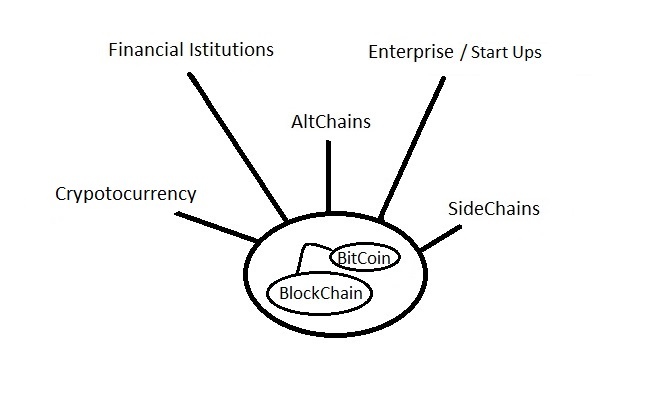
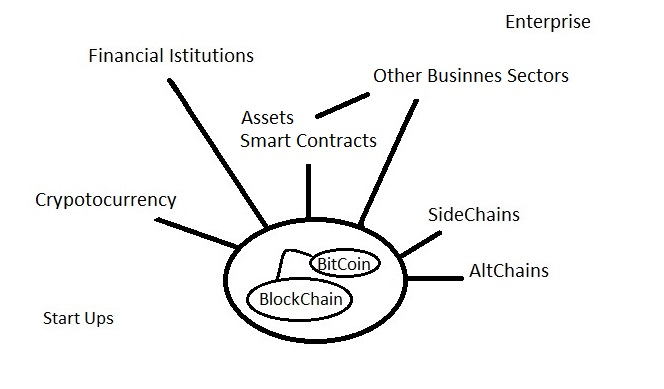
more content

diff --git a/BlockChainTheory/web/Theory00/Concept/altchain_0_frame.html b/BlockChainTheory/web/Theory00/Concept/altchain_0_frame.html
@@ -1,18 +1,23 @@
 <html><body>
-<H3>Altchains</H3>
-<B>SubTitle</B>
+<H3>Alternative block chains</H3>
+<B>Definition</B>
 <br>
-<p>this a a paraghraph test....
-<p>this is another with an Ancor: <a href="Link">[ Link ]</a> 
+<p>Alternative block chains (altchains) are based on bitcoin technology in concept and/or code.
+<p>Target performance, anonymity, storage and applications.
 <UL>
-<br><LI>List Item
-<br><LI>List Item
+<br><LI>Namecoin. Digital currency that can store data within a chain
+<br><LI>Mastercoin. Metaprotocol with the ability to process various transactions and sub-currencies
+<br><LI>Peercoin. Cryptocurrency-based token incorporating proof of stake in its consensus model
+<br><li>Litecoin. Based on Bitcoin's peer-to-peer protocol.The main feature is use of scrypt as its proof-of-work algorithm. 
+(This change reduces the efficiency gain and economic incentive to develop custom hardware such as Application Specific Integrated Circuits (ASIC). While ASICs can be adopted for any purpose and are likely to be introduced for Litecoin, the use of scrypt should delay this change, and preserve the decentralization in mining that brings a decentralized currency so much of its value and resiliency.)
+The second important feature is a reduced transaction confirmation time targeted at 2.5 minutes on average. 
+<br><LI>Colored Coins. Use the Bitcoin blockchain to store small amounts of metadata on the blockchain which can be used to represent asset manipulation instructions. For example, we can encode in a Bitcoin transaction that 100 units of a new asset were issued and are now credited to a given bitcoin address. A colored coins wallet can create a Bitcoin transaction that encodes sending 50 units of an asset from one address to a new address, and so on. 
 </UL>   
 <br>
-<img src="img_WorkInProgress.jpg" alt="Picture">
-<br>
+<br><i>n.d.r. The term altchain is reported here for completenes. With the recent evolution of the 
+tecnology there are several alternative blockchain than the original bitcoin</i>
 <hr>
-<br>[ Previous ] Altchains <a href="altchain_1_frame.html">[ Next ]</a>
+<br>[ Previous ] Altchains <a haef="altchain_1_frame.html">[ Next ]</a>
 </body></html>
 
 

diff --git a/BlockChainTheory/web/Theory00/Galaxy/galaxy_1_frame.html b/BlockChainTheory/web/Theory00/Galaxy/galaxy_1_frame.html
@@ -1,21 +1,11 @@
 <html><body>
 <H3>Block Chain Galaxy</H3>
-<B>Financial Institution</B>
+<B>The Block Chain Tsunami</B>
 <br>
-<p>The financial industry is a first mover in blockchain, investing nearly 
-$1 billion in blockchain companies, according to Magister Advisors. The technology could 
-cut $20 billion in annual costs in global banking, the Wall Street Journal reported, 
-citing a Santander InnoVentures analysis.
-<br>    
-<p>Some  Example:
+<p>A number of company, startup and open source projects have emerged to extend or exploit blockchain tecnology. 
 <UL>
-<br><LI>Nasdaq Inc., Citi Ventures, Visa Inc. and others put $30 million last September into <B>Chain Inc.</B>, which is building blockchain infrastructure for the financial industry. 
-<br><LI><B>Digital Asset Holdings LLC</B> a blockchain startup has raised more than $50 million from 13 investors including J.P. Morgan Chase & Co., Citigroup Inc. and BNP Paribas SA. They plan to research and commercialize platforms for deals involving stocks, derivatives, loans and other assets. transactions that now are recorded centrally by banks or other institutions in a process that adds cost and time.
-<br><LI><B>R3 CEV LTD</B> a consortium of 42 banks expect to pilot a private blockchain this year (2016), after 11 of the banks successfully conducted a test in January.     
-<br><LI><b>Ripple</b>, a payment network in which banks not only perform transactions, but can also control validator nodes.
+<br><LI>List some here with example..
 </UL>   
-<br>Source: <a href="http://blogs.wsj.com/cio/2016/02/02/cio-explainer-what-is-blockchain/">[ WSJ Article ]</a> 
-<br>
 <hr>
 <br><a href="galaxy_0_frame.html">[ Previous ]</a> Block Chain Galaxy <a href="galaxy_2_frame.html">[ Next ]</a>
 </body></html>

diff --git a/BlockChainTheory/web/Theory00/cmd_frame.html b/BlockChainTheory/web/Theory00/cmd_frame.html
@@ -10,26 +10,28 @@
 <br><a href="Concept/concept_0_frame.html" target="targetframe">Key Concepts</a>
 <br><a href="Concept/criptocurrency_0_frame.html" target="targetframe">Cryptocurrency</a>
 <br><a href="Concept/sidechain_0_frame.html" target="targetframe">SideChains</a>
-<br><a href="Concept/altchain_0_frame.html" target="targetframe"></a>AltChains
+<br><a href="Concept/altchain_0_frame.html" target="targetframe">AltChains</a>
 <br><a href="Concept/smart_0_frame.html" target="targetframe"></a> Smart Contracts
 <br>
 <br>
 <B>Block Chain Galaxy</B>
 <br><a href="Galaxy/galaxy_0_frame.html" target="targetframe">Overview</a>
-<br><a href="Galaxy/criptocurrency_0_frame.html" target="targetframe"></a>Financial Istitutions
-<br>
-<br>
-<B>Block Chain Adoptions</B>
-<br><a href="Adoptions/adopt_0_frame.html" target="targetframe"></a>Overview
+<br><a href="Galaxy/financial_0_frame.html" target="targetframe">Financial Istitutions</a>
+<br><a href="Galaxy/bcaas_0_frame.html" target="targetframe">Block Chain as a Service</a>
+<br><a href="Adoptions/adopt_0_frame.html" target="targetframe">Block Chain Adoptions</a>
 <br>
 <br>
 <B>Block Chain (Permissionless)</B>
 <br><a href="BitCoin/BitCoin00_frame.html" target="targetframe"></a>BitCoin
 <br><a href="Ethereum/ethereum00_frame.html" target="targetframe"></a>Ethereum
+<br>nxt
+<br>Stellar
+<br>BitShares 
 <br>
 <br>
 <B>Block Chain (Permissioned)</B>
 <br><a href="Ripple/ripple_0_frame.html" target="targetframe"></a>Ripple
+<br>SETL - OpenCSD
 <br>
 <br>
 <B>Block Chains Facts</B>

diff --git a/BlockChainTheory/web/Theory00/Galaxy/financial_0_frame.html b/BlockChainTheory/web/Theory00/Galaxy/financial_0_frame.html
@@ -1,0 +1,22 @@
+<html><body>
+<H3>Block Chain Galaxy</H3>
+<B>Financial Institution</B>
+<br>
+<p>The financial industry is a first mover in blockchain, investing nearly 
+$1 billion in blockchain companies, according to Magister Advisors. The technology could 
+cut $20 billion in annual costs in global banking, the Wall Street Journal reported, 
+citing a Santander InnoVentures analysis.
+<br>    
+<p>Some  Example:
+<UL>
+<br><LI>Nasdaq Inc., Citi Ventures, Visa Inc. and others put $30 million last September into <B>Chain Inc.</B>, which is building blockchain infrastructure for the financial industry. 
+<br><LI><B>Digital Asset Holdings LLC</B> a blockchain startup has raised more than $50 million from 13 investors including J.P. Morgan Chase & Co., Citigroup Inc. and BNP Paribas SA. They plan to research and commercialize platforms for deals involving stocks, derivatives, loans and other assets. transactions that now are recorded centrally by banks or other institutions in a process that adds cost and time.
+<br><LI><B>R3 CEV LTD</B> a consortium of 42 banks expect to pilot a private blockchain this year (2016), after 11 of the banks successfully conducted a test in January.     
+</UL>   
+<br>Source: <a href="http://blogs.wsj.com/cio/2016/02/02/cio-explainer-what-is-blockchain/">[ WSJ Article ]</a> 
+<br>
+<hr>
+<br>[ Previous ] Block Chain Galaxy [ Next ]</a>
+</body></html>
+
+

diff --git a/BlockChainTheory/web/Theory00/Galaxy/galaxy_2_frame.html b/BlockChainTheory/web/Theory00/Galaxy/galaxy_2_frame.html
@@ -1,18 +1,17 @@
 <html><body>
 <H3>Block Chain Galaxy</H3>
-<B>Enterprise</B>
+<B>Entreprise Reaction - Capital Venturing</B>
 <br>
-<p>Enterprise IT companly have also recognized the opportunity that Block Chain technology provides. 
-<p>Apart from simple transactions the techonogy offers the possibility to reshape how businnes is performed in many sectors. 
+<p>A number of company from different sectors (banks, tech company, insurance etc..) are financing a number
+    of start up and initiaives.
+<br><br><br>
+<img src="img_entVenture.jpg" alt="Picture">
+<br><br>
+<B>Entreprise Reaction - Joint Efforts</B>
 <br>
-<p>For Example:
-<UL>
-<br><LI>Company and what they did: <a href="Link">[ Company Link ]</a> 
-<br><LI>List Item
-</UL>   
-<br>
-<img src="../img_WorkInProgress.jpg" alt="Picture">
-<br>
+<p>A number of company from different sectors are sponsoring standardization and improvements in Block Chain technology. 
+<br><br><br>
+<img src="img_openLedger.jpg" alt="Picture">
 <hr>
 <br><a href="galaxy_1_frame.html">[ Previous ]</a> Block Chain Galaxy <a href="galaxy_3_frame.html">[ Next ]</a>
 </body></html>

diff --git a/BlockChainTheory/web/Theory00/Galaxy/galaxy_3_frame.html b/BlockChainTheory/web/Theory00/Galaxy/galaxy_3_frame.html
@@ -1,19 +1,15 @@
 <html><body>
 <H3>Block Chain Galaxy</H3>
-<B>Start Ups</B>
+<B>Professionalisation of Industry</B>
 <br>
-<p>A large number of small company and startup, often financed by Venture Capitalist
- are playng a key role in the block chain evolution.
-<p>For Example:
+<p>A number of small company and startup offer services as blockchain application design and development.
 <UL>
-<br><LI>Company and what they did: <a href="Link">[ Company Link ]</a> 
-<br><LI>List Item
-</UL>   
-<br>
-<img src="../img_WorkInProgress.jpg" alt="Picture">
-<br>
+<br><LI>Rubix. The Rubix team has experience building 
+across technology stacks, with a deep expertise in Ethereum compliant infrastructure.
+<br><LI>Others..
+</UL>  
 <hr>
-<br><a href="galaxy_2_frame.html">[ Previous ]</a> Block Chain Galaxy <a href="galaxy_4_frame.html">[ Next ]</a>
+<br><a href="galaxy_2_frame.html">[ Previous ]</a> Block Chain Galaxy [ Next ]
 </body></html>
 
 

diff --git a/BlockChainTheory/web/Theory00/Concept/criptocurrency_1_frame.html b/BlockChainTheory/web/Theory00/Concept/criptocurrency_1_frame.html
@@ -1,9 +1,15 @@
 <html><body>
 <H3>Cryptocurrency</H3>
-<B>SubTitle</B>
+<B>List of Cryptocurrencies</B>
 <br>
-<img src="../img_WorkInProgress.jpg" alt="Picture">
+<p>There were more than 710 cryptocurrencies available for trade in online markets as of 11
+ July 2016 and more than 740 in total but only 9 of them had market capitalizations over $10 million.
 <br>
+<br>
+<img src="CCMarketCap.jpg" alt="Market Capitalization">
+<br>
+<br><a href="https://coinmarketcap.com/">[ Market Capitalization of Cryptocurrencies ]</a>
+<br><a href="https://en.wikipedia.org/wiki/List_of_cryptocurrencies">[ List of Cryptocurrencies ]</a> 
 <hr>
 <br><a href="criptocurrency_0_frame.html">[ Previous ]</a> Cryptocurrency <a href="criptocurrency_2_frame.html">[ Next ]</a>
 </body></html>

diff --git a/BlockChainTheory/web/Theory00/Galaxy/bcaas_0_frame.html b/BlockChainTheory/web/Theory00/Galaxy/bcaas_0_frame.html
@@ -1,0 +1,20 @@
+<html><body>
+<H3>Block Chain Galaxy</H3>
+<B>Block Chain as a Service</B>
+<br>
+<br>
+<p>Pure tech players like are also exploring the opportunities blockchain presents.
+<p>Three companies are leading the BaaS solutions taking enterprise-grade experimentation 
+with blockchain to a whole new level.
+<p>
+<UL>
+<br><LI>Ethereum Blockchain as a Service by Microsoft Azure
+<br><LI>Rubix by Deloitte (mostly ethereum)
+<br><LI>IBM Blockchain (fiber) on Bluemix
+</UL> 
+<br><a href="https://letstalkpayments.com/3-companies-leading-the-blockchain-as-a-service-baas-revolution/">[ Article ]</a>   
+<hr>
+<br><a href="galaxy_0_frame.html">[ Previous ]</a> Block Chain Galaxy <a href="galaxy_2_frame.html">[ Next ]</a>
+</body></html>
+
+

diff --git a/BlockChainTheory/web/Theory00/Concept/concept_3_frame.html b/BlockChainTheory/web/Theory00/Concept/concept_3_frame.html
@@ -12,10 +12,8 @@
 <br><LI><B>Byzantine-fault-tolerant.</B> A consensus method between authenticated validators.
 <br><LI><B>Proof-of-stake.</B> disincentive mechanism for nodes that do not follow the consensus protocol.
 </UL>  
-
 <p>In permissionless systems, a reward in cryptocurrency is usually given to nodes for each generated block that matches the consensus mechanism (proof-of-work). 
 This  an incentive provided in order to join and protect the network. This process goes under the name of <b>mining</b>. 
-
 <p>An incentive mechanism is not required in permissioned systems, making this type of architecture more indicated in enterprise solutions.
 <p>At this time there is no universally agreed-upon consensus mechanism.
 <br>

diff --git a/BlockChainTheory/web/Theory00/Concept/sidechain_0_frame.html b/BlockChainTheory/web/Theory00/Concept/sidechain_0_frame.html
@@ -7,6 +7,11 @@ that are isolated from the block chain, allowing activity
 to exist in isolation until confirmation on the block chain,
 at which point transferability becomes bidirectional.
 <br>
+<p>Put simply, sidechaining is any mechanism that allows tokens from one blockchain to be 
+securely used within a completely separate blockchain but still moved back to the 
+original chain if necessary. By convention the original chain is normally referred 
+to as the main chain, while any additional blockchains which allow users to 
+transact within them in the tokens of the main chain are referred to as sidechains. 
 <br>
 <img src="img_sidechain.jpg" alt="Picture">
 <br>

diff --git a/BlockChainTheory/web/Theory00/Concept/concept_4_frame.html b/BlockChainTheory/web/Theory00/Concept/concept_4_frame.html
@@ -8,7 +8,7 @@
 <br>A mechanism that allows to solve the problem you face when you wish to solicit payments from the 
 public and yet hide all the payments you received. When you publish a single "stealth address" on your website, 
 the block chain sees all your incoming payments as going to separate addresses and has no way to correlate them.
-Digital Assets and Smart Property
+Digital Assets and Smart Property. 
 <br><br><B>Digital assets:</B>    
 <br>Building up on colored coins, digital assets are assets whose ownership is recorded digitally.
 Bitcoins are of digital assets, but since the Block Chain is a decentralized asset registry, 

diff --git a/BlockChainTheory/web/Theory00/Adoptions/adopt_0_frame.html b/BlockChainTheory/web/Theory00/Adoptions/adopt_0_frame.html
@@ -1,11 +1,15 @@
 <html><body>
 <H3>Block Chain Adoptions</H3>
-<B>Overview</B>
+<B>The New Land Of Opportunity</B>
 <br>
-<p>This section holds real life adoption of the block chain technology
-<br>    
-<img src="img_admap.jpg" alt="Picture">
-<br>  
+<p>A number of company and startup are exploring and exprimenting on the possibility that the block chain 
+technology offers to different businnes segments.  
+<br> 
+<br>R3 CEV 
+<br>WAVE
+<br>OpenBazar
+<br>Everleger
+<br>slack.it
 <hr>
 <br>[ Previous ] Block Chain Adoptions <a href="adopt_1_frame.html">[ Next ]</a>
 </body></html>
